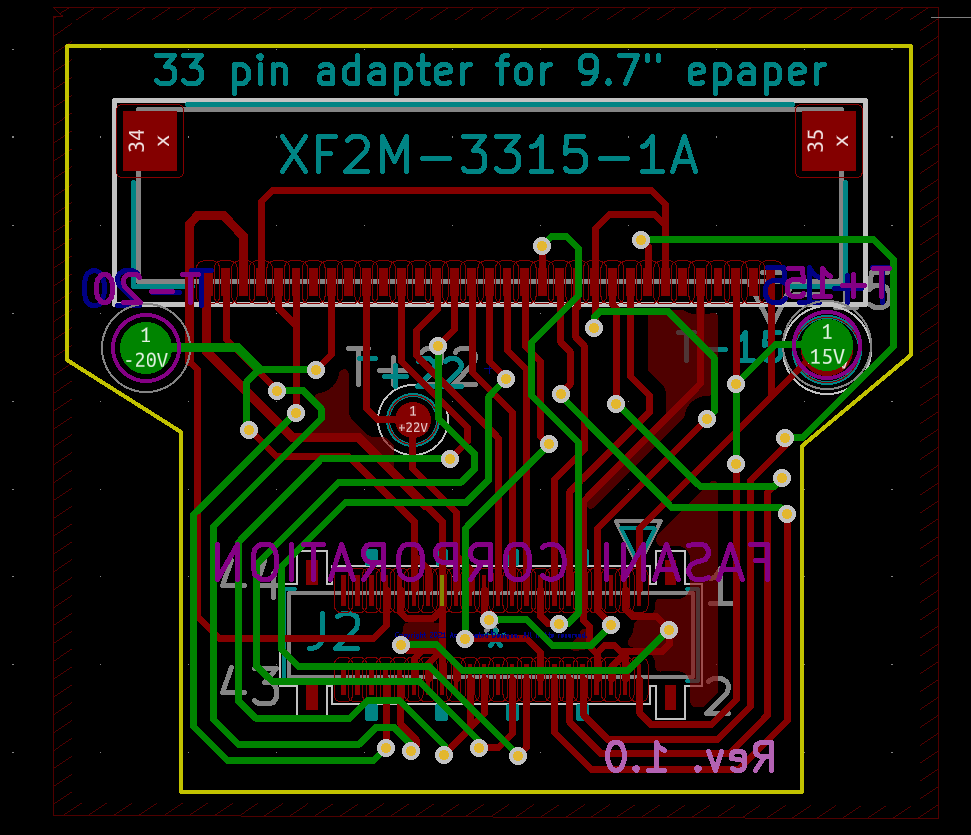
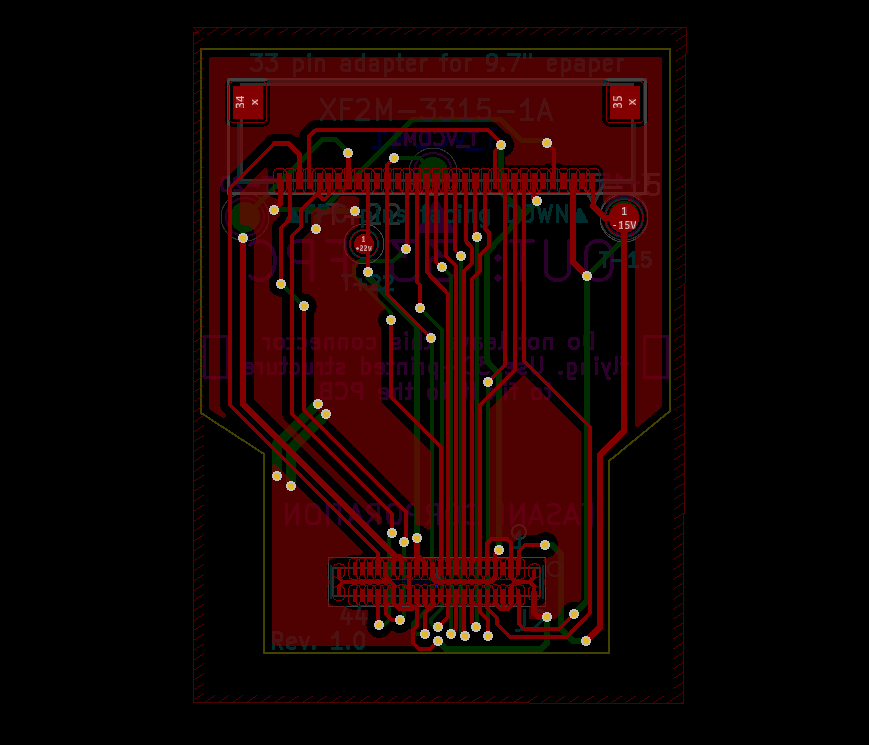
Update AXE adapter images

diff --git a/S3-AXE544127A-to-33/README.md b/S3-AXE544127A-to-33/README.md
@@ -2,7 +2,9 @@
 
 [AXE544127A](https://app.ultralibrarian.com/details/195de4da-7296-11e9-ab3a-0a3560a4cccc/Panasonic/AXE544127A) to a **XF2M-3315-1A** 33 pin connector which corresponds to 9.7" epaper displays (ED097OC4, ED097TCx and more)
 
-![pcb](assets/pcb-rev1.0.png)
+![pcb F.Cu](assets/pcb-rev1.0.png)
+
+![pcb Back Cu layer](assets/pcb-rev1.0-back-layer.png)
 
 In short: The aim of this adapter is to use a cheap Lilygo S3 board with all it's hardware additions (RTC, ESP32S3 with fast PSRAM and others) to power a much bigger display than the EPD047.
 
